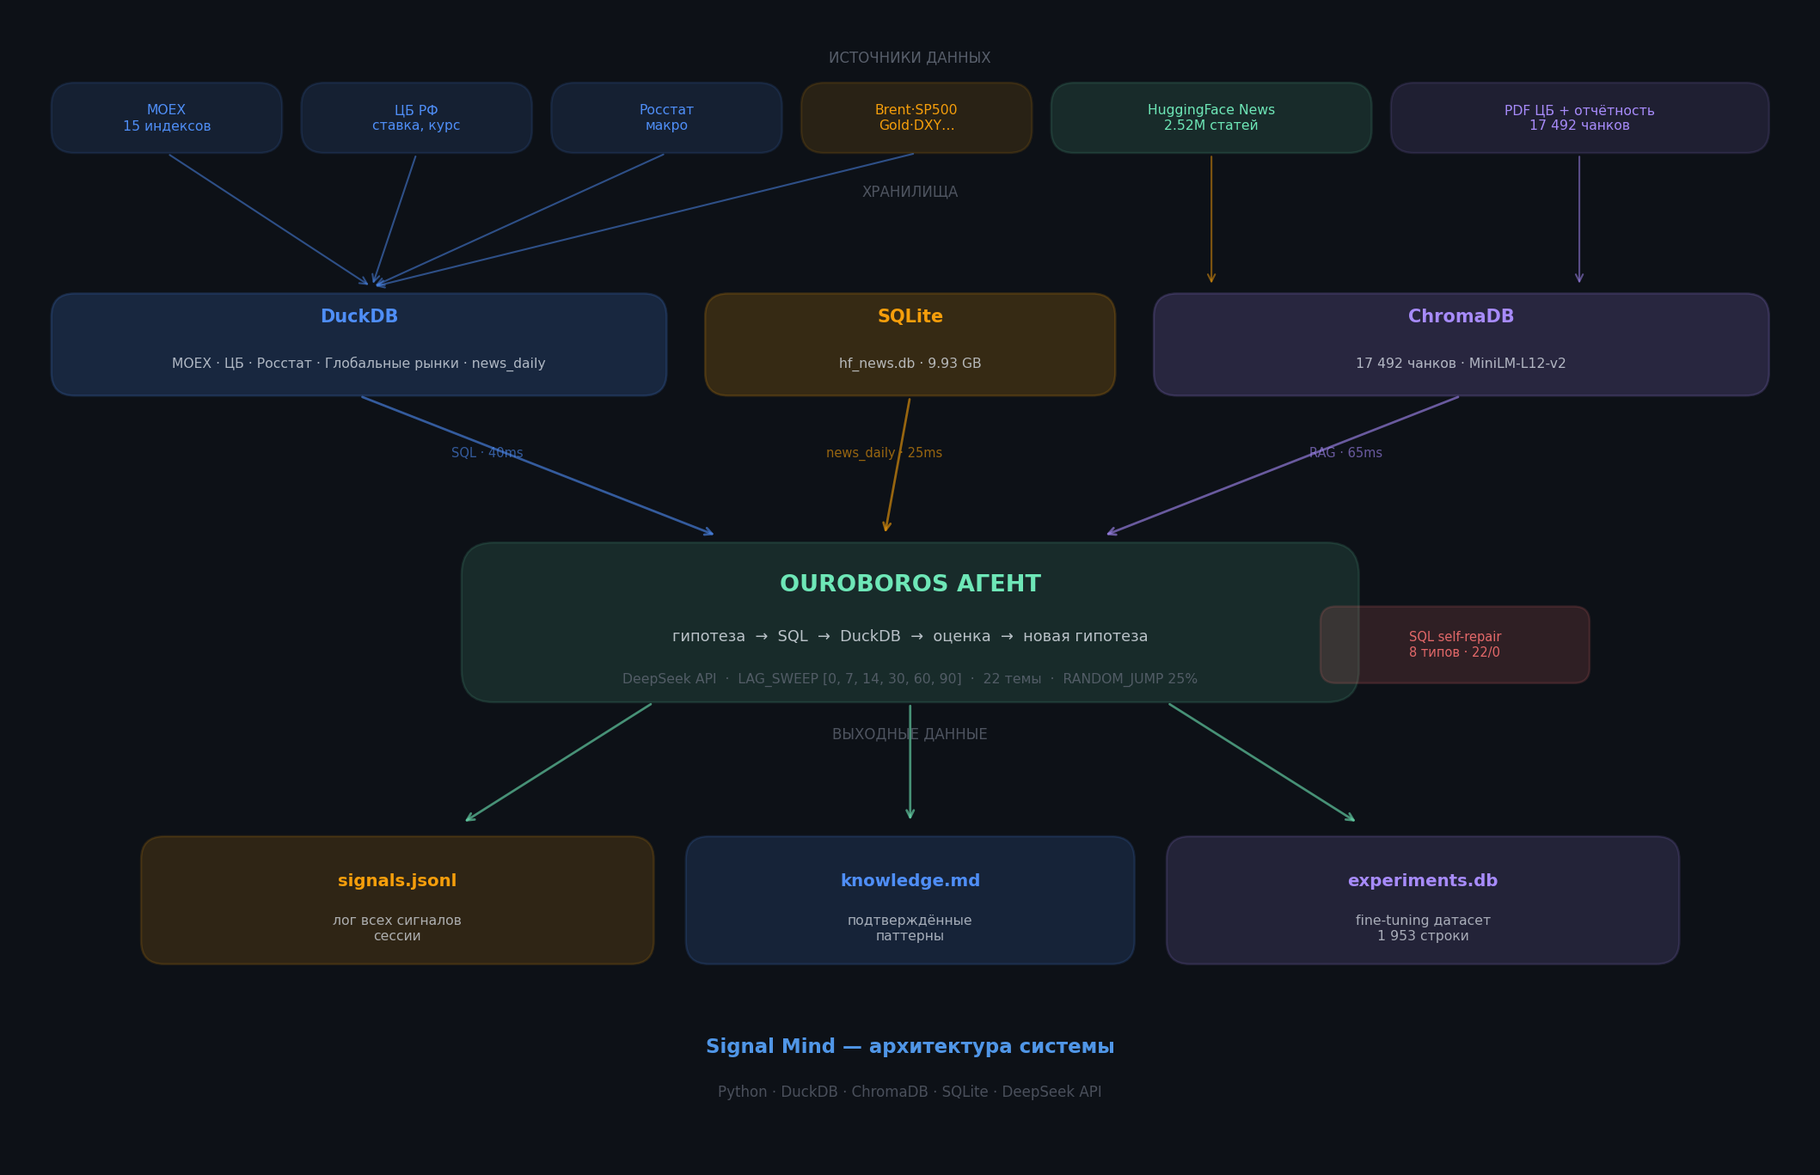
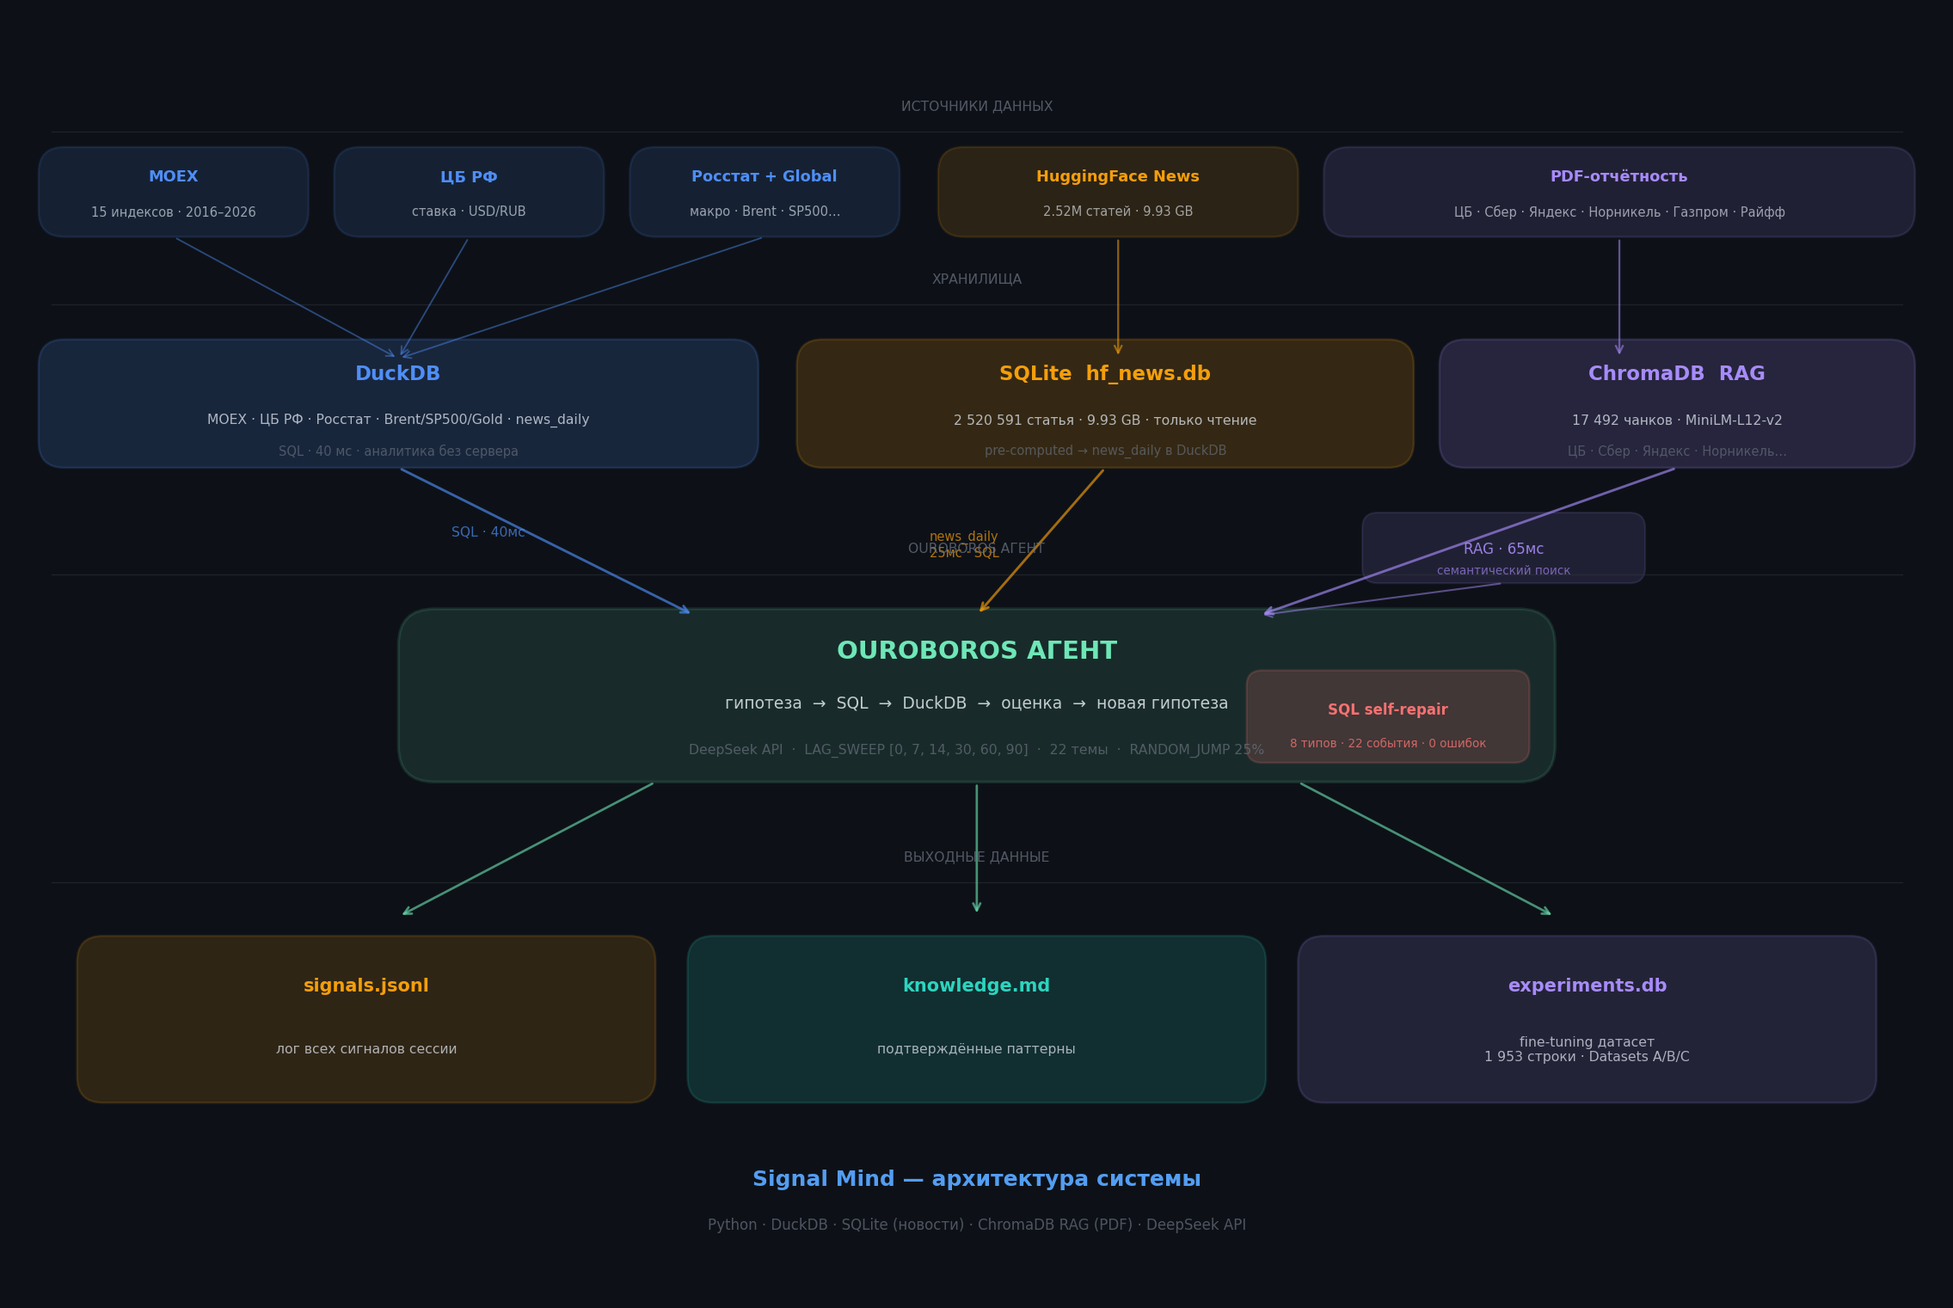
fix: correct architecture diagram — news via SQLite (not RAG), ChromaDB = PDF only
ChromaDB now clearly labeled as RAG for PDFs only (CBR, Sber, Yandex, Nornickel,
Gazprom, Raiff). SQLite hf_news.db → pre-computed news_daily in DuckDB, SQL access.

diff --git a/habr/sample/charts/gen_architecture.py b/habr/sample/charts/gen_architecture.py
@@ -1,160 +1,170 @@
-"""Architecture diagram: data sources → databases → agent → output."""
+"""Architecture diagram: data sources → databases → agent → output.
+RAG = ChromaDB (PDFs only). News = SQLite → news_daily in DuckDB (SQL, not RAG).
+"""
 import matplotlib
 matplotlib.use('Agg')
 import matplotlib.pyplot as plt
-import matplotlib.patches as mpatches
-from matplotlib.patches import FancyBboxPatch, FancyArrowPatch
-import matplotlib.patheffects as pe
+from matplotlib.patches import FancyBboxPatch
 
-# ── palette ──────────────────────────────────────────────────────
-BG      = '#0d1117'
-BG2     = '#161b22'
-BG3     = '#1e2535'
-BORDER  = '#30363d'
-BLUE    = '#4f8ef7'
-GREEN   = '#6ee7b7'
-AMBER   = '#f59e0b'
-RED     = '#f87171'
-PURPLE  = '#a78bfa'
-DIM     = '#6b7280'
-TEXT    = '#e2e8f0'
-ACCENT  = '#58a6ff'
+BG     = '#0d1117'
+BG2    = '#161b22'
+BORDER = '#30363d'
+BLUE   = '#4f8ef7'
+GREEN  = '#6ee7b7'
+AMBER  = '#f59e0b'
+RED    = '#f87171'
+PURPLE = '#a78bfa'
+TEAL   = '#2dd4bf'
+DIM    = '#6b7280'
+TEXT   = '#e2e8f0'
+ACCENT = '#58a6ff'
 
-fig, ax = plt.subplots(figsize=(14, 9))
+fig, ax = plt.subplots(figsize=(15, 10))
 fig.patch.set_facecolor(BG)
 ax.set_facecolor(BG)
-ax.set_xlim(0, 14)
-ax.set_ylim(0, 9)
+ax.set_xlim(0, 15)
+ax.set_ylim(0, 10)
 ax.axis('off')
 
-def box(x, y, w, h, color, alpha=0.15, border=None, radius=0.18):
-    border = border or color
-    rect = FancyBboxPatch((x, y), w, h,
+def box(x, y, w, h, color, alpha=0.15, border=None, lw=1.2, radius=0.2):
+    b = border or color
+    r = FancyBboxPatch((x, y), w, h,
         boxstyle=f"round,pad=0,rounding_size={radius}",
-        facecolor=color, alpha=alpha,
-        edgecolor=border, linewidth=1.2)
-    ax.add_patch(rect)
+        facecolor=color, alpha=alpha, edgecolor=b, linewidth=lw)
+    ax.add_patch(r)
 
-def label(x, y, text, size=9, color=TEXT, bold=False, ha='center', va='center', alpha=1.0):
-    weight = 'bold' if bold else 'normal'
-    ax.text(x, y, text, fontsize=size, color=color, ha=ha, va=va,
-            fontweight=weight, alpha=alpha,
-            fontfamily='DejaVu Sans')
+def txt(x, y, s, size=9, color=TEXT, bold=False, ha='center', va='center', alpha=1.0):
+    ax.text(x, y, s, fontsize=size, color=color, ha=ha, va=va,
+            fontweight='bold' if bold else 'normal', alpha=alpha)
 
-def arrow(x1, y1, x2, y2, color=DIM, lw=1.2, style='->', alpha=0.7):
+def arr(x1, y1, x2, y2, color=DIM, lw=1.3, alpha=0.65):
     ax.annotate('', xy=(x2, y2), xytext=(x1, y1),
-        arrowprops=dict(arrowstyle=style, color=color,
-                        lw=lw, alpha=alpha,
+        arrowprops=dict(arrowstyle='->', color=color, lw=lw, alpha=alpha,
                         connectionstyle='arc3,rad=0.0'))
 
-# ════════════════════════════════════════════════════════════════
-# ROW 1 — Data sources
-# ════════════════════════════════════════════════════════════════
-label(7, 8.65, 'ИСТОЧНИКИ ДАННЫХ', 8, DIM, bold=False, alpha=0.8)
+# ─── section header ───────────────────────────────────────────────
+def section(y, label):
+    ax.axhline(y + 0.02, color=BORDER, lw=0.6, alpha=0.5, xmin=0.02, xmax=0.98)
+    txt(7.5, y + 0.22, label, 7.5, DIM, alpha=0.75)
 
-sources = [
-    (0.3,  7.9, 1.8, 0.55, BLUE,   'MOEX\n15 индексов'),
-    (2.25, 7.9, 1.8, 0.55, BLUE,   'ЦБ РФ\nставка, курс'),
-    (4.2,  7.9, 1.8, 0.55, BLUE,   'Росстат\nмакро'),
-    (6.15, 7.9, 1.8, 0.55, AMBER,  'Brent·SP500\nGold·DXY…'),
-    (8.1,  7.9, 2.5, 0.55, GREEN,  'HuggingFace News\n2.52M статей'),
-    (10.75,7.9, 2.95,0.55, PURPLE, 'PDF ЦБ + отчётность\n17 492 чанков'),
+# ══════════════════════════════════════════════════════════════════
+# ROW 1  —  источники данных
+# ══════════════════════════════════════════════════════════════════
+section(9.05, 'ИСТОЧНИКИ ДАННЫХ')
+
+src = [
+    # x     y     w    h    col     title               sub
+    (0.2,  8.25, 2.1, 0.7, BLUE,  'MOEX',             '15 индексов · 2016–2026'),
+    (2.5,  8.25, 2.1, 0.7, BLUE,  'ЦБ РФ',            'ставка · USD/RUB'),
+    (4.8,  8.25, 2.1, 0.7, BLUE,  'Росстат + Global', 'макро · Brent · SP500…'),
+    (7.2,  8.25, 2.8, 0.7, AMBER, 'HuggingFace News', '2.52M статей · 9.93 GB'),
+    (10.2, 8.25, 4.6, 0.7, PURPLE,'PDF-отчётность',
+     'ЦБ · Сбер · Яндекс · Норникель · Газпром · Райфф'),
 ]
-for x, y, w, h, col, txt in sources:
-    box(x, y, w, h, col, alpha=0.12, border=col)
-    cx, cy = x + w/2, y + h/2
-    label(cx, cy, txt, 7.5, col, ha='center')
+for x, y, w, h, col, title, sub in src:
+    box(x, y, w, h, col, alpha=0.13, border=col)
+    cx = x + w/2
+    txt(cx, y + h*0.67, title, 8.5, col, bold=True)
+    txt(cx, y + h*0.28, sub,   7.0, TEXT, alpha=0.65)
 
-# ════════════════════════════════════════════════════════════════
+# ══════════════════════════════════════════════════════════════════
 # Arrows: sources → databases
-# ════════════════════════════════════════════════════════════════
-# MOEX + CBR + Rosstat + Global → DuckDB
-for sx in [1.2, 3.15, 5.1, 7.05]:
-    arrow(sx, 7.9, 2.8, 6.85, BLUE, lw=1.0, alpha=0.5)
+# ══════════════════════════════════════════════════════════════════
+# MOEX + CBR + Rosstat/Global → DuckDB  (синие)
+for sx in [1.25, 3.55, 5.85]:
+    arr(sx, 8.25, 3.0, 7.3, BLUE, lw=0.9, alpha=0.45)
 
-# HF News → SQLite
-arrow(9.35, 7.9, 9.35, 6.85, AMBER, lw=1.0, alpha=0.5)
+# HF News → SQLite  (янтарный)
+arr(8.6, 8.25, 8.6, 7.3, AMBER, lw=1.1, alpha=0.55)
 
-# PDFs → ChromaDB
-arrow(12.22, 7.9, 12.22, 6.85, PURPLE, lw=1.0, alpha=0.5)
+# PDFs → ChromaDB  (фиолетовый)
+arr(12.5, 8.25, 12.5, 7.3, PURPLE, lw=1.1, alpha=0.55)
 
-# ════════════════════════════════════════════════════════════════
-# ROW 2 — Databases
-# ════════════════════════════════════════════════════════════════
-label(7, 7.6, 'ХРАНИЛИЩА', 8, DIM, alpha=0.7)
+# ══════════════════════════════════════════════════════════════════
+# ROW 2  —  хранилища
+# ══════════════════════════════════════════════════════════════════
+section(7.7, 'ХРАНИЛИЩА')
 
 # DuckDB
-box(0.3, 6.0, 4.8, 0.8, BLUE, alpha=0.18, border=BLUE)
-label(2.7, 6.62, 'DuckDB', 10, BLUE, bold=True)
-label(2.7, 6.25, 'MOEX · ЦБ · Росстат · Глобальные рынки · news_daily', 7.5, TEXT, alpha=0.75)
+box(0.2, 6.45, 5.6, 1.0, BLUE, alpha=0.17, border=BLUE)
+txt(3.0, 7.18, 'DuckDB', 11, BLUE, bold=True)
+txt(3.0, 6.82, 'MOEX · ЦБ РФ · Росстат · Brent/SP500/Gold · news_daily', 7.5, TEXT, alpha=0.75)
+txt(3.0, 6.58, 'SQL · 40 мс · аналитика без сервера', 7.0, DIM, alpha=0.65)
 
 # SQLite
-box(5.4, 6.0, 3.2, 0.8, AMBER, alpha=0.18, border=AMBER)
-label(7.0, 6.62, 'SQLite', 10, AMBER, bold=True)
-label(7.0, 6.25, 'hf_news.db · 9.93 GB', 7.5, TEXT, alpha=0.75)
+box(6.1,  6.45, 4.8, 1.0, AMBER, alpha=0.17, border=AMBER)
+txt(8.5,  7.18, 'SQLite  hf_news.db', 11, AMBER, bold=True)
+txt(8.5,  6.82, '2 520 591 статья · 9.93 GB · только чтение', 7.5, TEXT, alpha=0.75)
+txt(8.5,  6.58, 'pre-computed → news_daily в DuckDB', 7.0, DIM, alpha=0.65)
 
 # ChromaDB
-box(8.9, 6.0, 4.8, 0.8, PURPLE, alpha=0.18, border=PURPLE)
-label(11.3, 6.62, 'ChromaDB', 10, PURPLE, bold=True)
-label(11.3, 6.25, '17 492 чанков · MiniLM-L12-v2', 7.5, TEXT, alpha=0.75)
+box(11.1, 6.45, 3.7, 1.0, PURPLE, alpha=0.17, border=PURPLE)
+txt(12.95, 7.18, 'ChromaDB  RAG', 11, PURPLE, bold=True)
+txt(12.95, 6.82, '17 492 чанков · MiniLM-L12-v2', 7.5, TEXT, alpha=0.75)
+txt(12.95, 6.58, 'ЦБ · Сбер · Яндекс · Норникель…', 7.0, DIM, alpha=0.65)
 
-# ════════════════════════════════════════════════════════════════
-# Arrows: databases → agent
-# ════════════════════════════════════════════════════════════════
-arrow(2.7,  6.0, 5.5, 4.9, BLUE,   lw=1.3, alpha=0.6)
-arrow(7.0,  6.0, 6.8, 4.9, AMBER,  lw=1.3, alpha=0.6)
-arrow(11.3, 6.0, 8.5, 4.9, PURPLE, lw=1.3, alpha=0.6)
+# ══════════════════════════════════════════════════════════════════
+# Arrows: databases → agent   (с подписями)
+# ══════════════════════════════════════════════════════════════════
+arr(3.0,  6.45, 5.3, 5.3, BLUE,   lw=1.4, alpha=0.65)
+arr(8.5,  6.45, 7.5, 5.3, AMBER,  lw=1.4, alpha=0.65)
+arr(12.95,6.45, 9.7, 5.3, PURPLE, lw=1.4, alpha=0.65)
 
-# small labels on arrows
-label(3.7, 5.55, 'SQL · 40ms', 7, BLUE, alpha=0.6)
-label(6.8, 5.55, 'news_daily · 25ms', 7, AMBER, alpha=0.6)
-label(10.4, 5.55, 'RAG · 65ms', 7, PURPLE, alpha=0.6)
+txt(3.7,  5.95, 'SQL · 40мс', 7.5, BLUE,   alpha=0.7)
+txt(7.4,  5.85, 'news_daily\n25мс · SQL', 7.0, AMBER,  alpha=0.7)
+# RAG label — справа
+box(10.5, 5.55, 2.2, 0.55, PURPLE, alpha=0.13, border=PURPLE, lw=1.0, radius=0.12)
+txt(11.6, 5.82, 'RAG · 65мс', 8, PURPLE, bold=False, alpha=0.9)
+txt(11.6, 5.65, 'семантический поиск', 6.5, PURPLE, alpha=0.65)
+arr(11.6, 5.55, 9.7, 5.3, PURPLE, lw=1.0, alpha=0.5)
 
-# ════════════════════════════════════════════════════════════════
-# ROW 3 — Ouroboros Agent (central, prominent)
-# ════════════════════════════════════════════════════════════════
-box(3.5, 3.6, 7.0, 1.25, GREEN, alpha=0.12, border=GREEN, radius=0.25)
-label(7.0, 4.52, 'OUROBOROS АГЕНТ', 13, GREEN, bold=True)
-label(7.0, 4.12, 'гипотеза  →  SQL  →  DuckDB  →  оценка  →  новая гипотеза', 8.5, TEXT, alpha=0.8)
-label(7.0, 3.78, 'DeepSeek API  ·  LAG_SWEEP [0, 7, 14, 30, 60, 90]  ·  22 темы  ·  RANDOM_JUMP 25%', 7.5, DIM, alpha=0.7)
+# ══════════════════════════════════════════════════════════════════
+# ROW 3  —  Ouroboros агент
+# ══════════════════════════════════════════════════════════════════
+section(5.6, 'OUROBOROS АГЕНТ')
 
-# inner loop label
-label(7.0, 4.52, '', 8, GREEN)  # placeholder spacing
+box(3.0, 4.0, 9.0, 1.35, GREEN, alpha=0.12, border=GREEN, lw=1.6, radius=0.28)
+txt(7.5, 5.02, 'OUROBOROS АГЕНТ', 14, GREEN, bold=True)
+txt(7.5, 4.62, 'гипотеза  →  SQL  →  DuckDB  →  оценка  →  новая гипотеза', 9, TEXT, alpha=0.85)
+txt(7.5, 4.25, 'DeepSeek API  ·  LAG_SWEEP [0, 7, 14, 30, 60, 90]  ·  22 темы  ·  RANDOM_JUMP 25%', 7.5, DIM, alpha=0.7)
 
-# SQL self-repair badge (small box inside)
-box(10.2, 3.75, 2.1, 0.6, RED, alpha=0.15, border=RED, radius=0.12)
-label(11.25, 4.05, 'SQL self-repair\n8 типов · 22/0', 7, RED, alpha=0.9)
+# SQL self-repair — малый бейдж внутри
+box(9.6, 4.15, 2.2, 0.72, RED, alpha=0.18, border=RED, radius=0.12)
+txt(10.7, 4.56, 'SQL self-repair', 8, RED, bold=True)
+txt(10.7, 4.3,  '8 типов · 22 события · 0 ошибок', 6.5, RED, alpha=0.8)
 
-# ════════════════════════════════════════════════════════════════
-# Arrows: agent → output
-# ════════════════════════════════════════════════════════════════
-arrow(5.0, 3.6, 3.5, 2.65, GREEN, lw=1.3, alpha=0.6)
-arrow(7.0, 3.6, 7.0, 2.65, GREEN, lw=1.3, alpha=0.6)
-arrow(9.0, 3.6, 10.5,2.65, GREEN, lw=1.3, alpha=0.6)
+# ══════════════════════════════════════════════════════════════════
+# Arrows: agent → outputs
+# ══════════════════════════════════════════════════════════════════
+arr(5.0, 4.0, 3.0, 2.95, GREEN, lw=1.3, alpha=0.6)
+arr(7.5, 4.0, 7.5, 2.95, GREEN, lw=1.3, alpha=0.6)
+arr(10.0,4.0, 12.0,2.95, GREEN, lw=1.3, alpha=0.6)
 
-# ════════════════════════════════════════════════════════════════
-# ROW 4 — Outputs
-# ════════════════════════════════════════════════════════════════
-label(7, 3.35, 'ВЫХОДНЫЕ ДАННЫЕ', 8, DIM, alpha=0.7)
+# ══════════════════════════════════════════════════════════════════
+# ROW 4  —  выходные данные
+# ══════════════════════════════════════════════════════════════════
+section(3.2, 'ВЫХОДНЫЕ ДАННЫЕ')
 
-outputs = [
-    (1.0,  1.55, 4.0, 1.0, AMBER,  'signals.jsonl',    'лог всех сигналов\nсессии'),
-    (5.25, 1.55, 3.5, 1.0, BLUE,   'knowledge.md',     'подтверждённые\nпаттерны'),
-    (9.0,  1.55, 4.0, 1.0, PURPLE, 'experiments.db',   'fine-tuning датасет\n1 953 строки'),
+outs = [
+    (0.5,  1.5, 4.5, 1.3, AMBER,  'signals.jsonl',   'лог всех сигналов сессии'),
+    (5.25, 1.5, 4.5, 1.3, TEAL,   'knowledge.md',    'подтверждённые паттерны'),
+    (10.0, 1.5, 4.5, 1.3, PURPLE, 'experiments.db',  'fine-tuning датасет\n1 953 строки · Datasets A/B/C'),
 ]
-for x, y, w, h, col, title, sub in outputs:
+for x, y, w, h, col, title, sub in outs:
     box(x, y, w, h, col, alpha=0.15, border=col)
     cx = x + w/2
-    label(cx, y + h*0.65, title, 9.5, col, bold=True)
-    label(cx, y + h*0.28, sub, 7.5, TEXT, alpha=0.7)
+    txt(cx, y + h*0.7, title, 10, col, bold=True)
+    txt(cx, y + h*0.32, sub,  7.5, TEXT, alpha=0.72)
 
-# ════════════════════════════════════════════════════════════════
+# ══════════════════════════════════════════════════════════════════
 # Title + footer
-# ════════════════════════════════════════════════════════════════
-label(7, 0.9, 'Signal Mind — архитектура системы', 11, ACCENT, bold=True, alpha=0.9)
-label(7, 0.55, 'Python · DuckDB · ChromaDB · SQLite · DeepSeek API', 8, DIM, alpha=0.65)
+# ══════════════════════════════════════════════════════════════════
+txt(7.5, 0.9, 'Signal Mind — архитектура системы', 12, ACCENT, bold=True, alpha=0.95)
+txt(7.5, 0.55,
+    'Python · DuckDB · SQLite (новости) · ChromaDB RAG (PDF) · DeepSeek API',
+    8, DIM, alpha=0.7)
 
-plt.tight_layout(pad=0.3)
+plt.tight_layout(pad=0.2)
 out = 'habr/sample/charts/architecture.png'
 plt.savefig(out, dpi=150, bbox_inches='tight', facecolor=BG)
 plt.close()
